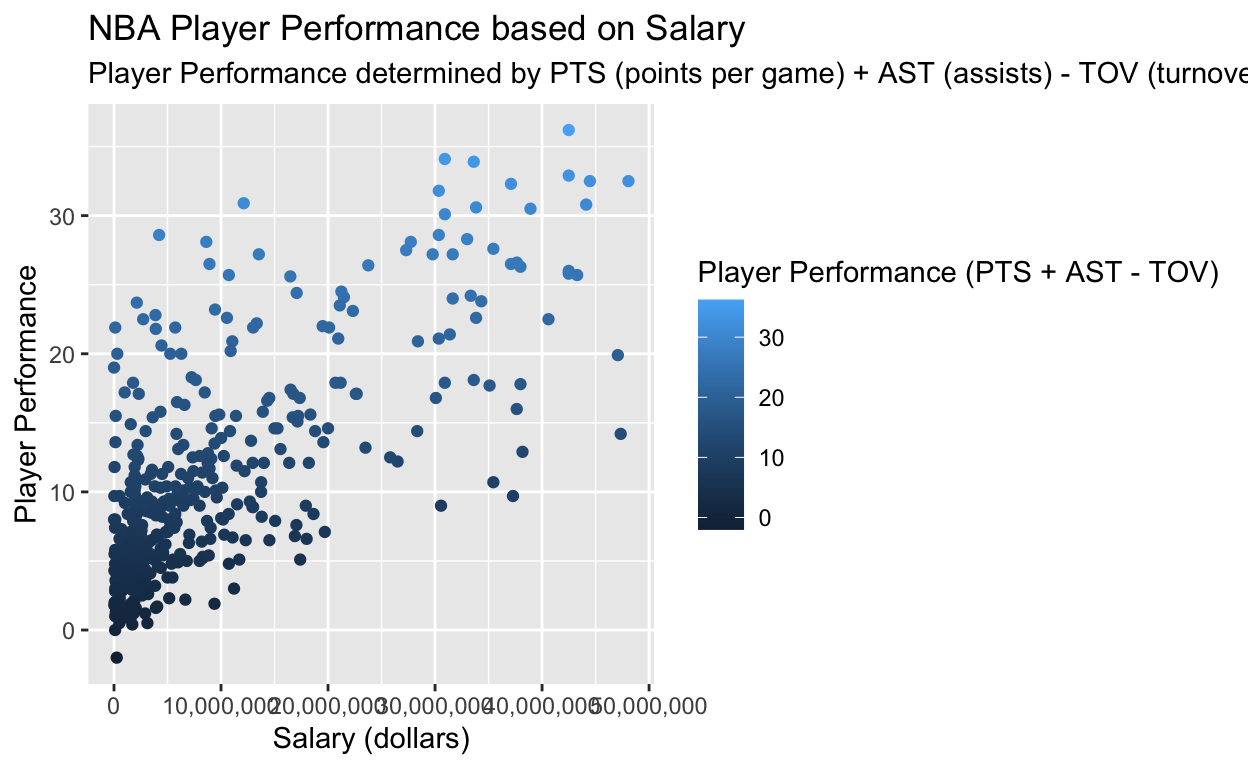
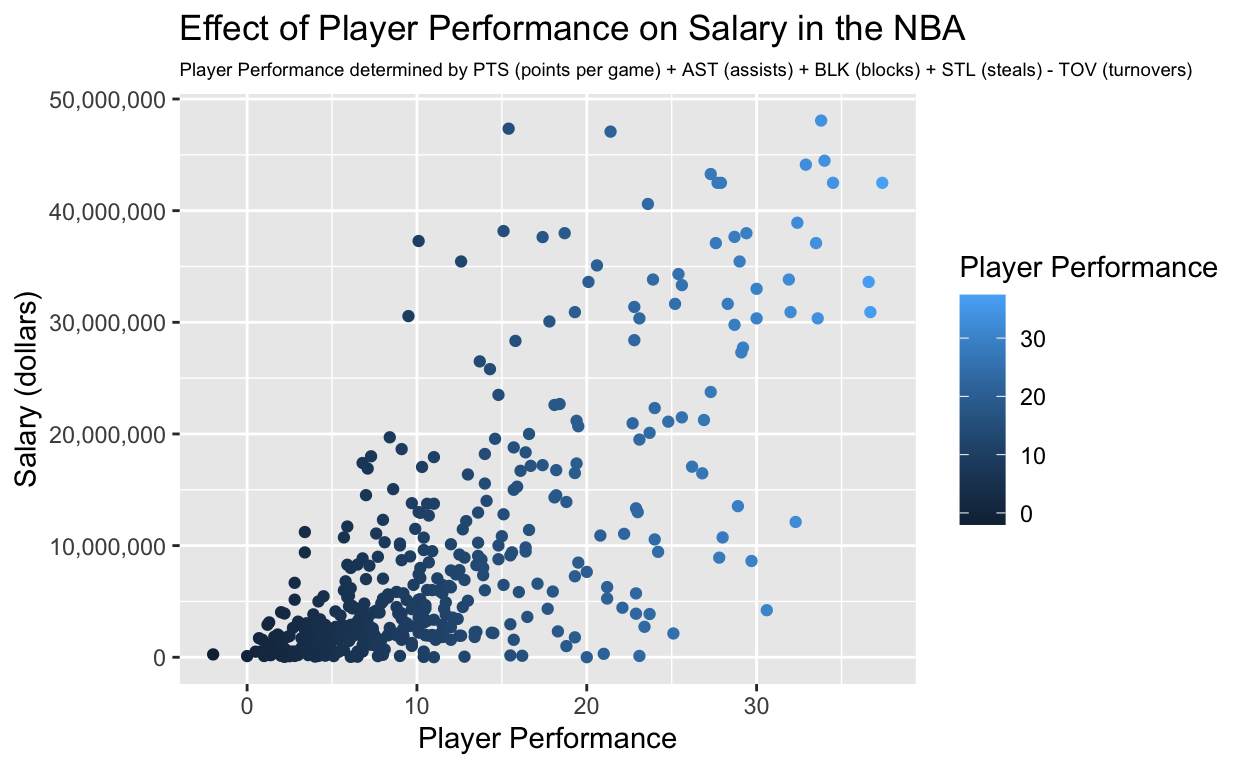
Completed final project

diff --git a/index.html b/index.html
@@ -88,34 +88,34 @@ code span.wa { color: #5e5e5e; font-style: italic; } /* Warning */
 
 
   <!--radix_placeholder_meta_tags-->
-  <title>Gov 50 Final Project</title>
+  <title>Player Performance and Salary</title>
 
-  <meta property="description" itemprop="description" content="Identifying popular NBA teams using proxies to demonstrate support."/>
+  <meta property="description" itemprop="description" content="Evaluating the effects of player performance on salary in the NBA"/>
 
 
   <meta name="article:author" content="Claire Pak"/>
 
   <!--  https://developers.facebook.com/docs/sharing/webmasters#markup -->
-  <meta property="og:title" content="Gov 50 Final Project"/>
+  <meta property="og:title" content="Player Performance and Salary"/>
   <meta property="og:type" content="article"/>
-  <meta property="og:description" content="Identifying popular NBA teams using proxies to demonstrate support."/>
+  <meta property="og:description" content="Evaluating the effects of player performance on salary in the NBA"/>
   <meta property="og:locale" content="en_US"/>
 
   <!--  https://dev.twitter.com/cards/types/summary -->
   <meta property="twitter:card" content="summary"/>
-  <meta property="twitter:title" content="Gov 50 Final Project"/>
-  <meta property="twitter:description" content="Identifying popular NBA teams using proxies to demonstrate support."/>
+  <meta property="twitter:title" content="Player Performance and Salary"/>
+  <meta property="twitter:description" content="Evaluating the effects of player performance on salary in the NBA"/>
 
   <!--/radix_placeholder_meta_tags-->
   <!--radix_placeholder_rmarkdown_metadata-->
 
   <script type="text/json" id="radix-rmarkdown-metadata">
-  {"type":"list","attributes":{"names":{"type":"character","attributes":{},"value":["title","author","description","output"]}},"value":[{"type":"character","attributes":{},"value":["Gov 50 Final Project"]},{"type":"list","attributes":{},"value":[{"type":"list","attributes":{"names":{"type":"character","attributes":{},"value":["name"]}},"value":[{"type":"character","attributes":{},"value":["Claire Pak"]}]}]},{"type":"character","attributes":{},"value":["Identifying popular NBA teams using proxies to demonstrate support."]},{"type":"list","attributes":{"names":{"type":"character","attributes":{},"value":["distill::distill_article"]}},"value":[{"type":"list","attributes":{"names":{"type":"character","attributes":{},"value":["self_contained"]}},"value":[{"type":"logical","attributes":{},"value":[false]}]}]}]}
+  {"type":"list","attributes":{"names":{"type":"character","attributes":{},"value":["title","author","description","output"]}},"value":[{"type":"character","attributes":{},"value":["Player Performance and Salary"]},{"type":"list","attributes":{},"value":[{"type":"list","attributes":{"names":{"type":"character","attributes":{},"value":["name"]}},"value":[{"type":"character","attributes":{},"value":["Claire Pak"]}]}]},{"type":"character","attributes":{},"value":["Evaluating the effects of player performance on salary in the NBA"]},{"type":"list","attributes":{"names":{"type":"character","attributes":{},"value":["distill::distill_article"]}},"value":[{"type":"list","attributes":{"names":{"type":"character","attributes":{},"value":["self_contained"]}},"value":[{"type":"logical","attributes":{},"value":[false]}]}]}]}
   </script>
   <!--/radix_placeholder_rmarkdown_metadata-->
   
   <script type="text/json" id="radix-resource-manifest">
-  {"type":"character","attributes":{},"value":["index_files/anchor-4.2.2/anchor.min.js","index_files/bowser-1.9.3/bowser.min.js","index_files/distill-2.2.21/template.v2.js","index_files/figure-html5/unnamed-chunk-3-1.png","index_files/figure-html5/unnamed-chunk-4-1.png","index_files/header-attrs-2.17/header-attrs.js","index_files/header-attrs-2.24/header-attrs.js","index_files/jquery-3.6.0/jquery-3.6.0.js","index_files/jquery-3.6.0/jquery-3.6.0.min.js","index_files/jquery-3.6.0/jquery-3.6.0.min.map","index_files/popper-2.6.0/popper.min.js","index_files/tippy-6.2.7/tippy-bundle.umd.min.js","index_files/tippy-6.2.7/tippy-light-border.css","index_files/tippy-6.2.7/tippy.css","index_files/tippy-6.2.7/tippy.umd.min.js","index_files/webcomponents-2.0.0/webcomponents.js","nba_22_23_stats.csv"]}
+  {"type":"character","attributes":{},"value":["index_files/anchor-4.2.2/anchor.min.js","index_files/bowser-1.9.3/bowser.min.js","index_files/distill-2.2.21/template.v2.js","index_files/figure-html5/unnamed-chunk-2-1.png","index_files/figure-html5/unnamed-chunk-3-1.png","index_files/figure-html5/unnamed-chunk-4-1.png","index_files/figure-html5/unnamed-chunk-5-1.png","index_files/figure-html5/unnamed-chunk-6-1.png","index_files/figure-html5/unnamed-chunk-7-1.png","index_files/figure-html5/unnamed-chunk-8-1.png","index_files/header-attrs-2.17/header-attrs.js","index_files/header-attrs-2.24/header-attrs.js","index_files/jquery-3.6.0/jquery-3.6.0.js","index_files/jquery-3.6.0/jquery-3.6.0.min.js","index_files/jquery-3.6.0/jquery-3.6.0.min.map","index_files/popper-2.6.0/popper.min.js","index_files/tippy-6.2.7/tippy-bundle.umd.min.js","index_files/tippy-6.2.7/tippy-light-border.css","index_files/tippy-6.2.7/tippy.css","index_files/tippy-6.2.7/tippy.umd.min.js","index_files/webcomponents-2.0.0/webcomponents.js","nba_22_23_stats.csv"]}
   </script>
   <!--radix_placeholder_navigation_in_header-->
   <!--/radix_placeholder_navigation_in_header-->
@@ -1493,7 +1493,7 @@ code span.wa { color: #5e5e5e; font-style: italic; } /* Warning */
 <!--radix_placeholder_front_matter-->
 
 <script id="distill-front-matter" type="text/json">
-{"title":"Gov 50 Final Project","description":"Identifying popular NBA teams using proxies to demonstrate support.","authors":[{"author":"Claire Pak","authorURL":"#","affiliation":"&nbsp;","affiliationURL":"#","orcidID":""}]}
+{"title":"Player Performance and Salary","description":"Evaluating the effects of player performance on salary in the NBA","authors":[{"author":"Claire Pak","authorURL":"#","affiliation":"&nbsp;","affiliationURL":"#","orcidID":""}]}
 </script>
 
 <!--/radix_placeholder_front_matter-->
@@ -1503,10 +1503,10 @@ code span.wa { color: #5e5e5e; font-style: italic; } /* Warning */
 <!--/radix_placeholder_site_before_body-->
 
 <div class="d-title">
-<h1>Gov 50 Final Project</h1>
+<h1>Player Performance and Salary</h1>
 <!--radix_placeholder_categories-->
 <!--/radix_placeholder_categories-->
-<p>Identifying popular NBA teams using proxies to demonstrate support.</p>
+<p>Evaluating the effects of player performance on salary in the NBA</p>
 </div>
 
 <div class="d-byline">
@@ -1517,78 +1517,110 @@ code span.wa { color: #5e5e5e; font-style: italic; } /* Warning */
 </div>
 
 <div class="d-article">
-<h2 id="project-thoughts">Project thoughts</h2>
-<p>I am interested in exploring data related to basketball teams in the NBA. More specifically, I am interested in tracking support for various teams over time and exploring the potential fluctuations to identify which teams have been the most popular during different periods. Some proxies I may use to measure support include attendance at games. However, I understand correlation is not equal to causation, so I plan to look at other factors such as team winning percentage, health of players on the team, number of championships, etc. As of right now, I imagine the various teams will be my independent variable, and then whatever proxy I choose to measure support will serve as my dependent variable.</p>
-<p>##Milestone 2 - Project Proposal</p>
-<p>Does the performance of NBA players improve during the season when their contracts expire, in contrast to performance in previous seasons? In a league as competitive as the NBA, players often feel pressure to maintain peak athleticism, particularly in contract expiration seasons due to the consistent inflow of new talent that enter through the drafts. In this study, I plan to understand the extent to which a player’s performance improves in the season of which their contract expires, allowing a player to either re-sign their contract, or be released. I hypothesize that the performance of NBA players significantly improves in the season in which their contract expires, compared to performances in prior seasons. During the season prior to the contract expiration, I expect players to focus on improving key metrics including points per game (PPG), rebounds, steals, etc in efforts to get a resign offer. The explanatory variable is whether we are observing the season in which the contract expires, or seasons prior to the expiration. This variable will be measured by identifying the season a players contract will end. The outcome variable of interest is the player’s performance, which can be measured through monitoring key stats such as a player’s points per game, steals, rebounds, number of turnovers, etc. I plan to choose a set number of key stats and then compare those across the different seasons. For instance, if a player’s contract expires at the end of the 2023-2024 season, my study would compare the PPG, rebounds and steals of this season to those of prior seasons such as 2022-2023, 2021-2022, etc. For the study, I plan to use the NBA advanced statistics dataset on nba.com that includes all of the mentioned key stats and the basketball-reference website to identify this information. A pattern that would provide support for the hypothesis is if there is an overall net increase in the performance metrics for a substantial portion of the season. If the study uses PPG, rebounds and steals per season as the key metrics to measure a player’s performance, there should be a positive relationship where these metrics are higher in the season during which a player’s contract will end, compared to other seasons. If there is no significant change, or perhaps even a decline in the previously mentioned metrics, the negative observed patterns would be an indication that the hypothesis may not be supported.</p>
-<p>##Milestone 3</p>
+<h2 id="introduction">Introduction</h2>
+<p>At the highest levels of professional sports, such as the NBA, the unparalleled level of competition demands both physical and mental strength. In this fiercely competitive basketball league, athletes are often paid substantial salaries, with select individuals earning over over 7 figures. Yet other players, like Ben Simmons and Monta Ellis fail to leave a positive record in box scores despite their substantial earnings, so perhaps game performance does not affect salary as much. This report seeks to understand: Is there a clear relationship between performance and salary? I hypothesize that there is a relationship between performance and salary, in that performance affects salary. I anticipate that players who perform stronger will have greater salaries. The null hypothesis is that there is no relationship between player performance and salary.</p>
+<p>This question is particularly intriguing because if my hypothesis is not supported, it raises a crucial area of discussion for the NBA to consider when evaluating player salary structures. With substantial money involved in player salaries, it’s important to consider whether that money is justly distributed to players. The findings may indicate a need for increased monetary recognition towards players who have demonstrated elite performance, but don’t have paychecks that mirror this - as such, this exploration fuels my interests in the project.</p>
+<p>The primary focus of this report is to evaluate the affect of performance on salary, but I aim to delve deeper by exploring which specific performance factors exert the greatest impact on salary. More specifically, this report will examine the role of confounding variables, such as total minutes played. Total minutes played is an example of an extraneous variable that influences both the independent and dependent variables. More specifically, players who perform well are likely to receive more playing time, but players with more minutes may also have higher salaries due to their increased playing time and contributions to the success of the team. Therefore, total minutes may distort the observed relationships between player performance and salary, and this project seeks to address confounding variables such as this.</p>
+<h2 id="data-overview">Data Overview</h2>
+<p>This project relies on data from Kaggle and includes key statistics of all 467 players that were active during the 2022-2023 season. This dataset includes the variables: Player Name, Salary, Team as well as key metrics that are used in box scores such as total points, assists, blocks, steals and turnovers for the season. My study is cross-sectional as the data is the average of each measured statistic at a given point in time, which is the end of the 2022-2023 season.</p>
+<p>The independent variable in this sample is the players performance, as measured by key metrics including average points (PTS), assists (AST), blocks (BLK), steals (STL) and turnovers (TOV) per game. A new variable, called performance_2024 was created to account for these 5 factors that contribute towards a players performance. The first four statistics are desirable among players and contribute towards a strong performance as they directly relate to scoring more points, or stopping the other team from scoring. However, when using these 5 factors to compose the ‘player performance’ independent variable, turnovers is subtracted, as turnovers indicates the ball was taken from the player, and thus the other team has possession, and the possibility to score for their team. As such, turnovers are not a factor that beneficially contributes towards player performance.The dependent variable is salary (dollars) and is directly taken from the dataset variable called ‘Salary’ and represents the contract amount a player receives for the 2022-2023 season.</p>
+<p>The figure below displays the distribution of the dependent variable, salary.</p>
 <div class="layout-chunk" data-layout="l-body">
 <div class="sourceCode">
-<pre class="sourceCode r"><code class="sourceCode r"><span><span class='co'>##Loading necessary packages</span></span>
+<pre class="sourceCode r"><code class="sourceCode r"><span><span class='co'>##Loading necessary packages for this report</span></span>
 <span><span class='kw'><a href='https://rdrr.io/r/base/library.html'>library</a></span><span class='op'>(</span><span class='va'><a href='https://readr.tidyverse.org'>readr</a></span><span class='op'>)</span></span>
 <span><span class='kw'><a href='https://rdrr.io/r/base/library.html'>library</a></span><span class='op'>(</span><span class='va'><a href='https://tidyverse.tidyverse.org'>tidyverse</a></span><span class='op'>)</span></span>
-<span><span class='kw'><a href='https://rdrr.io/r/base/library.html'>library</a></span><span class='op'>(</span><span class='va'><a href='https://dplyr.tidyverse.org'>dplyr</a></span><span class='op'>)</span></span></code></pre>
-</div>
-</div>
-<div class="layout-chunk" data-layout="l-body">
-<div class="sourceCode">
-<pre class="sourceCode r"><code class="sourceCode r"><span><span class='co'>##loading NBA 2022-2023 season data from Kaggle data</span></span>
+<span><span class='kw'><a href='https://rdrr.io/r/base/library.html'>library</a></span><span class='op'>(</span><span class='va'><a href='https://dplyr.tidyverse.org'>dplyr</a></span><span class='op'>)</span></span>
+<span><span class='kw'><a href='https://rdrr.io/r/base/library.html'>library</a></span><span class='op'>(</span><span class='va'><a href='https://ggplot2.tidyverse.org'>ggplot2</a></span><span class='op'>)</span></span>
+<span><span class='kw'><a href='https://rdrr.io/r/base/library.html'>library</a></span><span class='op'>(</span><span class='va'>stargazer</span><span class='op'>)</span></span>
+<span></span>
+<span><span class='co'># Loading report data from Kaggle</span></span>
 <span><span class='va'>nba_22_23</span> <span class='op'>&lt;-</span> <span class='fu'><a href='https://readr.tidyverse.org/reference/read_delim.html'>read_csv</a></span><span class='op'>(</span><span class='st'>"nba_22_23_stats.csv"</span><span class='op'>)</span></span></code></pre>
 </div>
 </div>
 <div class="layout-chunk" data-layout="l-body">
 <div class="sourceCode">
-<pre class="sourceCode r"><code class="sourceCode r"><span><span class='co'>##creating a composite performance variable based off of points per game (PTS), assists (AST) and turnovers (TOV) that will serve as the dependent variable</span></span>
+<pre class="sourceCode r"><code class="sourceCode r"><span><span class='co'>##Creating histogram to display dependant variable distribution</span></span>
+<span><span class='va'>salary_hist</span> <span class='op'>&lt;-</span> <span class='fu'><a href='https://ggplot2.tidyverse.org/reference/ggplot.html'>ggplot</a></span><span class='op'>(</span>data <span class='op'>=</span> <span class='va'>nba_22_23</span>, <span class='fu'><a href='https://ggplot2.tidyverse.org/reference/aes.html'>aes</a></span><span class='op'>(</span>x <span class='op'>=</span> <span class='va'>Salary</span><span class='op'>)</span><span class='op'>)</span> <span class='op'>+</span></span>
+<span>  <span class='fu'><a href='https://ggplot2.tidyverse.org/reference/geom_histogram.html'>geom_histogram</a></span><span class='op'>(</span>binwidth <span class='op'>=</span> <span class='fl'>100000</span>, color <span class='op'>=</span> <span class='st'>"blue"</span><span class='op'>)</span> <span class='op'>+</span></span>
+<span>  <span class='fu'><a href='https://ggplot2.tidyverse.org/reference/labs.html'>labs</a></span><span class='op'>(</span>x <span class='op'>=</span> <span class='st'>"Salary"</span>, y <span class='op'>=</span> <span class='st'>"Frequency"</span>, title <span class='op'>=</span> <span class='st'>"Distribution of NBA Player Salaries in the 2022-2023 Season"</span><span class='op'>)</span> <span class='op'>+</span></span>
+<span>  <span class='fu'><a href='https://ggplot2.tidyverse.org/reference/scale_continuous.html'>scale_x_continuous</a></span><span class='op'>(</span>labels <span class='op'>=</span> <span class='fu'>scales</span><span class='fu'>::</span><span class='va'><a href='https://scales.r-lib.org/reference/comma.html'>comma</a></span><span class='op'>)</span></span>
 <span></span>
+<span><span class='va'>salary_hist</span></span></code></pre>
+</div>
+<p><img src="index_files/figure-html5/unnamed-chunk-2-1.png" width="624" /></p>
+</div>
+<p>The histogram above displays the distribution of player salaries during the 2022-2023 season in the NBA. The histogram displays a right-skewed distribution, showing that the bulk of the salary data is concentrated towards the lower millions, around $2.5 million dollars.</p>
+<h2 id="results">Results</h2>
+<div class="layout-chunk" data-layout="l-body">
+<div class="sourceCode">
+<pre class="sourceCode r"><code class="sourceCode r"><span><span class='co'>##Creating a new column representing a player's composite performance score</span></span>
 <span><span class='va'>nba_22_23</span> <span class='op'>&lt;-</span> <span class='va'>nba_22_23</span> <span class='op'>|&gt;</span></span>
-<span>  <span class='fu'><a href='https://dplyr.tidyverse.org/reference/mutate.html'>mutate</a></span><span class='op'>(</span>performance_2024 <span class='op'>=</span>  <span class='va'>PTS</span> <span class='op'>+</span> <span class='va'>AST</span> <span class='op'>-</span> <span class='va'>TOV</span><span class='op'>)</span></span>
+<span>  <span class='fu'><a href='https://dplyr.tidyverse.org/reference/mutate.html'>mutate</a></span><span class='op'>(</span>performance_22_23 <span class='op'>=</span>  <span class='va'>PTS</span> <span class='op'>+</span> <span class='va'>AST</span> <span class='op'>+</span> <span class='va'>BLK</span> <span class='op'>+</span> <span class='va'>STL</span> <span class='op'>-</span> <span class='va'>TOV</span><span class='op'>)</span></span>
 <span></span>
 <span></span>
-<span><span class='co'>##creating data visualization</span></span>
+<span><span class='co'>##Creating a scatter plot to visualize NBA player performance effect on their salaries</span></span>
 <span><span class='va'>player_performance_graph</span> <span class='op'>&lt;-</span> <span class='fu'><a href='https://ggplot2.tidyverse.org/reference/ggplot.html'>ggplot</a></span><span class='op'>(</span>data <span class='op'>=</span> <span class='va'>nba_22_23</span>,</span>
-<span>                                    mapping <span class='op'>=</span> <span class='fu'><a href='https://ggplot2.tidyverse.org/reference/aes.html'>aes</a></span><span class='op'>(</span>x <span class='op'>=</span> <span class='va'>Salary</span>,</span>
-<span>                                                  y <span class='op'>=</span> <span class='va'>performance_2024</span>, color <span class='op'>=</span> <span class='va'>performance_2024</span><span class='op'>)</span><span class='op'>)</span> <span class='op'>+</span></span>
+<span>                                    mapping <span class='op'>=</span> <span class='fu'><a href='https://ggplot2.tidyverse.org/reference/aes.html'>aes</a></span><span class='op'>(</span>x <span class='op'>=</span> <span class='va'>performance_22_23</span>,</span>
+<span>                                                  y <span class='op'>=</span> <span class='va'>Salary</span>, color <span class='op'>=</span> <span class='va'>performance_22_23</span><span class='op'>)</span><span class='op'>)</span> <span class='op'>+</span></span>
 <span>  <span class='fu'><a href='https://ggplot2.tidyverse.org/reference/geom_point.html'>geom_point</a></span><span class='op'>(</span><span class='op'>)</span> <span class='op'>+</span></span>
-<span>  <span class='fu'><a href='https://ggplot2.tidyverse.org/reference/labs.html'>labs</a></span><span class='op'>(</span>x <span class='op'>=</span> <span class='st'>"Salary (dollars)"</span>,</span>
-<span>       y <span class='op'>=</span> <span class='st'>"Player Performance"</span>,</span>
-<span>       title <span class='op'>=</span> <span class='st'>"NBA Player Performance based on Salary"</span>,</span>
-<span>       subtitle <span class='op'>=</span> <span class='st'>"Player Performance determined by PTS (points per game) + AST (assists) - TOV (turnovers)"</span><span class='op'>)</span> <span class='op'>+</span></span>
-<span>  <span class='fu'><a href='https://ggplot2.tidyverse.org/reference/scale_continuous.html'>scale_x_continuous</a></span><span class='op'>(</span>labels <span class='op'>=</span> <span class='fu'>scales</span><span class='fu'>::</span><span class='va'><a href='https://scales.r-lib.org/reference/comma.html'>comma</a></span><span class='op'>)</span> <span class='op'>+</span></span>
-<span>  <span class='fu'><a href='https://ggplot2.tidyverse.org/reference/labs.html'>labs</a></span><span class='op'>(</span>color <span class='op'>=</span> <span class='st'>"Player Performance (PTS + AST - TOV)"</span><span class='op'>)</span> </span>
-<span></span>
+<span>  <span class='fu'><a href='https://ggplot2.tidyverse.org/reference/labs.html'>labs</a></span><span class='op'>(</span>x <span class='op'>=</span> <span class='st'>"Player Performance"</span>,</span>
+<span>       y <span class='op'>=</span> <span class='st'>"Salary (dollars)"</span>,</span>
+<span>       title <span class='op'>=</span> <span class='st'>"Effect of Player Performance on Salary in the NBA"</span>,</span>
+<span>       subtitle <span class='op'>=</span> <span class='st'>"Player Performance determined by PTS (points per game) + AST (assists) + BLK (blocks) + STL (steals) - TOV (turnovers)"</span><span class='op'>)</span> <span class='op'>+</span></span>
+<span>  <span class='fu'><a href='https://ggplot2.tidyverse.org/reference/scale_continuous.html'>scale_y_continuous</a></span><span class='op'>(</span>labels <span class='op'>=</span> <span class='fu'>scales</span><span class='fu'>::</span><span class='va'><a href='https://scales.r-lib.org/reference/comma.html'>comma</a></span><span class='op'>)</span> <span class='op'>+</span></span>
+<span>  <span class='fu'><a href='https://ggplot2.tidyverse.org/reference/labs.html'>labs</a></span><span class='op'>(</span>color <span class='op'>=</span> <span class='st'>"Player Performance"</span><span class='op'>)</span> <span class='op'>+</span></span>
+<span>  <span class='fu'><a href='https://ggplot2.tidyverse.org/reference/theme.html'>theme</a></span><span class='op'>(</span></span>
+<span>    plot.subtitle <span class='op'>=</span> <span class='fu'><a href='https://ggplot2.tidyverse.org/reference/element.html'>element_text</a></span><span class='op'>(</span>size <span class='op'>=</span> <span class='fl'>7</span><span class='op'>)</span></span>
+<span>  <span class='op'>)</span></span>
 <span><span class='va'>player_performance_graph</span></span></code></pre>
 </div>
 <p><img src="index_files/figure-html5/unnamed-chunk-3-1.png" width="624" /></p>
 </div>
-##Milestone 4
+<p>The graph above demonstrates a positive correlation between player performance and salary - generally as player performance is stronger, salary is also higher. However, I aim to uncover confounding variables that might affect both a players performance and salary through further regression analysis.</p>
 <div class="layout-chunk" data-layout="l-body">
 <div class="sourceCode">
-<pre class="sourceCode r"><code class="sourceCode r"><span><span class='co'>##For milestone 4: Same code from milestone 3 as I want to maintain the same substance for my graph</span></span>
-<span><span class='co'>##but now adding in a regression line to better visualize the relationship</span></span>
-<span></span>
-<span><span class='va'>nba_22_23</span> <span class='op'>&lt;-</span> <span class='va'>nba_22_23</span> <span class='op'>|&gt;</span></span>
-<span>  <span class='fu'><a href='https://dplyr.tidyverse.org/reference/mutate.html'>mutate</a></span><span class='op'>(</span>performance_2024 <span class='op'>=</span>  <span class='va'>PTS</span> <span class='op'>+</span> <span class='va'>AST</span> <span class='op'>-</span> <span class='va'>TOV</span><span class='op'>)</span></span>
-<span></span>
-<span><span class='co'>##creating graphs for each position and adding in a regression line for data visualization analysis </span></span>
-<span><span class='va'>performance_analysis</span> <span class='op'>&lt;-</span> <span class='fu'><a href='https://ggplot2.tidyverse.org/reference/ggplot.html'>ggplot</a></span><span class='op'>(</span>data <span class='op'>=</span> <span class='va'>nba_22_23</span>,</span>
-<span>                                    mapping <span class='op'>=</span> <span class='fu'><a href='https://ggplot2.tidyverse.org/reference/aes.html'>aes</a></span><span class='op'>(</span>x <span class='op'>=</span> <span class='va'>Salary</span>,</span>
-<span>                                                  y <span class='op'>=</span> <span class='va'>performance_2024</span>, color <span class='op'>=</span> <span class='va'>performance_2024</span><span class='op'>)</span><span class='op'>)</span> <span class='op'>+</span></span>
-<span>  <span class='fu'><a href='https://ggplot2.tidyverse.org/reference/geom_point.html'>geom_point</a></span><span class='op'>(</span>size <span class='op'>=</span> <span class='fl'>1</span><span class='op'>)</span> <span class='op'>+</span></span>
-<span>  <span class='fu'><a href='https://ggplot2.tidyverse.org/reference/geom_smooth.html'>geom_smooth</a></span><span class='op'>(</span>method <span class='op'>=</span> <span class='st'>"lm"</span>, se <span class='op'>=</span> <span class='cn'>FALSE</span>, color <span class='op'>=</span> <span class='st'>"black"</span><span class='op'>)</span> <span class='op'>+</span></span>
-<span>  <span class='fu'><a href='https://ggplot2.tidyverse.org/reference/labs.html'>labs</a></span><span class='op'>(</span>x <span class='op'>=</span> <span class='st'>"Salary (dollars)"</span>,</span>
-<span>       y <span class='op'>=</span> <span class='st'>"Player Performance"</span>,</span>
-<span>       title <span class='op'>=</span> <span class='st'>"NBA Player Performance based on Salary for Each Position"</span>,</span>
-<span>       subtitle <span class='op'>=</span> <span class='st'>"Player Performance determined by PTS (points per game) + AST (assists) - TOV (turnovers)"</span><span class='op'>)</span> <span class='op'>+</span></span>
-<span>  <span class='fu'><a href='https://ggplot2.tidyverse.org/reference/scale_continuous.html'>scale_x_continuous</a></span><span class='op'>(</span>labels <span class='op'>=</span> <span class='fu'>scales</span><span class='fu'>::</span><span class='va'><a href='https://scales.r-lib.org/reference/comma.html'>comma</a></span><span class='op'>)</span> <span class='op'>+</span></span>
-<span>  <span class='fu'><a href='https://ggplot2.tidyverse.org/reference/labs.html'>labs</a></span><span class='op'>(</span>color <span class='op'>=</span> <span class='st'>"Player Performance (PTS + AST - TOV)"</span><span class='op'>)</span> <span class='op'>+</span></span>
-<span>  <span class='fu'><a href='https://ggplot2.tidyverse.org/reference/facet_wrap.html'>facet_wrap</a></span><span class='op'>(</span><span class='op'>~</span> <span class='va'>Position</span><span class='op'>)</span><span class='op'>+</span></span>
-<span>  <span class='fu'><a href='https://ggplot2.tidyverse.org/reference/theme.html'>theme</a></span><span class='op'>(</span>axis.text.x <span class='op'>=</span> <span class='fu'><a href='https://ggplot2.tidyverse.org/reference/element.html'>element_text</a></span><span class='op'>(</span>angle <span class='op'>=</span> <span class='fl'>45</span>, hjust <span class='op'>=</span> <span class='fl'>1</span><span class='op'>)</span><span class='op'>)</span></span>
-<span><span class='va'>performance_analysis</span></span></code></pre>
+<pre class="sourceCode r"><code class="sourceCode r"><span><span class='co'>##Creating a linear regression model</span></span>
+<span><span class='va'>model</span> <span class='op'>&lt;-</span> <span class='fu'><a href='https://rdrr.io/r/stats/lm.html'>lm</a></span><span class='op'>(</span><span class='va'>Salary</span> <span class='op'>~</span> <span class='va'>`Total Minutes`</span> <span class='op'>+</span> <span class='va'>PTS</span> <span class='op'>+</span> <span class='va'>AST</span> <span class='op'>+</span> <span class='va'>BLK</span>, data <span class='op'>=</span> <span class='va'>nba_22_23</span><span class='op'>)</span></span>
+<span><span class='fu'><a href='https://rdrr.io/pkg/stargazer/man/stargazer.html'>stargazer</a></span><span class='op'>(</span><span class='va'>model</span>, type <span class='op'>=</span> <span class='st'>"text"</span><span class='op'>)</span></span></code></pre>
 </div>
-<p><img src="index_files/figure-html5/unnamed-chunk-4-1.png" width="624" /></p>
+<pre><code>
+===============================================
+                        Dependent variable:    
+                    ---------------------------
+                              Salary           
+-----------------------------------------------
+`Total Minutes`              -176.525          
+                             (638.930)         
+                                               
+PTS                       900,717.400***       
+                           (91,409.180)        
+                                               
+AST                       911,301.900***       
+                           (258,700.500)       
+                                               
+BLK                      3,366,441.000***      
+                          (1,006,828.000)      
+                                               
+Constant                 -2,807,737.000***     
+                           (620,019.000)       
+                                               
+-----------------------------------------------
+Observations                    467            
+R2                             0.548           
+Adjusted R2                    0.545           
+Residual Std. Error  7,226,944.000 (df = 462)  
+F Statistic          140.266*** (df = 4; 462)  
+===============================================
+Note:               *p&lt;0.1; **p&lt;0.05; ***p&lt;0.01</code></pre>
 </div>
-<p>Since the first two milestones, my project topic has remained the same, but the focus of my research question has changed. My new research question seeks to understand: how does salary effect NBA player performance? To determine player performance, a player’s average points per game and assists per game are added together, and then turnovers per game are subtracted from that value, as having high turnovers is not something you want players to have. While the general hypothesis may be that a higher salary correlates to better performance, the NBA in the past has included several players, such as Ben Simmons, that are paid high salaries due to their high draft pick for instance, but do not perform to a high level. As such, I was curious to understand what the greater patterns across the league may look like. Based on the plots, one observation is that there is a positive correlation between salary and player performance. More specifically, as salary is higher, player performance generally seems to be higher as well. I included a regression line to better visualize this observation, and the regression line also supports a positive relationship between the two variables. To better understand a breakdown of the positive relationship, I then made seperate graphs based on player position to see if there was any variance based on position. The 9 different graphs of the 9 different positions also display a positive relationship between salary and player performance, which supports the hypothesis that as salary increases, player performance also increases. However, further analysis will be necessary to see if there is causation involved between salary and player performance.</p>
-<div class="sourceCode" id="cb1"><pre class="sourceCode r distill-force-highlighting-css"><code class="sourceCode r"></code></pre></div>
+<p>This regression analysis evaluates what factors of performance have the greatest impact on salary, with a particular focus on total minutes as a confounding variable. This project seeks to address confounding variables such as this to better understand how player performance independently affects salary. The results show that <code>Total Minutes</code> has a middle estimate of -176.525 with a +/- value of 638.930. In other words, <code>Total Minutes</code> can be as low as -815.445 (when 638.930 is subtracted from -176.525) and as high as 462.405 (when 638.930 is added to -176.525). The null hypothesis value of 0 falls within the interval of [-815.445, 462.405]. Therefore, we fail to reject the null hypothesis that there is no relationship between Total Minutes played and salary. In other words, we can’t conclude whether there’s a positive relationship or a negative relationship between total minutes and salaries and the Total Minutes coefficient is not statistically significant.</p>
+<p>Moving on to points (PTS), the results demonstrate that when all other factors (total minutes, assists and blocks) are held constant, for every incremental point a player averages per game, this model predicts a ~ $900,717 increase in salary. There is a positive relationship between points and salary because after a similar analysis as <code>Total Minutes</code> above, both interval ends of salary still remain positive after the plus or minus values are accounted for. The null hypothesis value of 0 does not fall within the positive interval [809,308.22 , 900,807.809], so the points coefficient is statistically significant and we can reject the null hypothesis that there’s no relationship between points and salary. Similar trends persist when analyzing assists (AST) and blocks (BLK). For every incremental assist a player averages per game, the model predicts a $911,301 increase in salary and for every incremental block per game, the model predicts a $3,366,441 increase in salary. The null hypothesis value of 0 does not fall within the positive interval [652,601.4, 1,170,002.4] for assists and the interval [2,359,613, 4,373,269] for blocks, which suggests that there is statistical significance for assists and blocks. As such, we can reject the null hypothesis that there’s no relationship between assists and salary, or blocks and salary.</p>
+<p>Interestingly, this model values blocks the most out of points, assists and blocks since $3,366, 441 is greater than the amount of $900,717 for points and $911,301 for assists. Additionally, this model suggests that incremental assists are more valuable than incremental points. These findings are interesting considering the fact that the total number of points scored by a player is often used to evaluate the player’s success in a given game. However, it’s important to consider that the incremental increase does not matter as much, because in the world of basketball, the range for total points in a given night varies more than the number of assists or blocks. For instance, one could expect elite players like Lebron James to score 30 points in one game, but stats for blocks and assists are considered to be high at 3-4 blocks, and 10-12 assists per game. In other words, it is extremely unlikely to find a NBA player that will average 30 assists or 30 blocks. As such, it makes sense that the incremental values of blocks and assists might be worth more. In parallel with that finding, substantively speaking, we expect most of the salary to be driven by points in the real world, outside of this stargazer model.</p>
+<h2 id="concluding-remarks">Concluding Remarks</h2>
+<p>To conclude, there does seem to be a relationship between performance and salary. Upon evaluating the factors that contribute towards performance, we find that a similar pattern holds true.
+For points, assists and blocks, we observe that there is statistical significance and that we can reject the null hypothesis that there’s no relationship between points and salary, assists and salary, and blocks and salary. In other words, there does appear to be a relationship between points and salary, assists and salary and blocks and salary. Additionally, the data demonstrates a positive relationship between points, assists and blocks respectively to salary because the coefficient remains positive after the plus or minus values are accounted for. Moreover, the star gazer package displays asterisks next to coefficient estimates to show levels of statistical significance based on p-values calculated by the model.The three asterisks next to the coefficient for points, assists and blocks implies the p-value is less than 0.01, which demonstrates strong evidence against the null hypothesis. The model supports the finding that there is statistical significance and that we can reject the null hypothesis that there’s no relationship between points and salary, assists and salary, and blocks and salary. For <code>Total Minutes</code> and salary however, we do not observe a statistical significance. This makes sense as if a player was on the court for one minute and scored zero points, zero assists and zero blocks, they are effectively doing nothing. Thus it makes sense that this player may not have a high salary. An important limitation to consider for this report is that my report only uses NBA data from the 2022-2023 season. It’s in the nature of sports that players can improve from one year to the next. Given more time, it would be beneficial to also analyze past and future seasons to generate an even fuller picture of the analysis. Another limitation to the study is that this dataset includes quantitative measures such as points scored, assists made etc, but does not account for less quantifiable factors such as team culture, which can arguably make or break a team’s performance. Given more time, an interesting piece of analysis would be to evaluate a performance of a player transitioning teams. By evaluating performance during their time at one team to a different team, we may potentially better understand how coaching styles and culture fits into the picture.</p>
+<div class="sourceCode" id="cb2"><pre class="sourceCode r distill-force-highlighting-css"><code class="sourceCode r"></code></pre></div>
 <!--radix_placeholder_article_footer-->
 <!--/radix_placeholder_article_footer-->
 </div>
